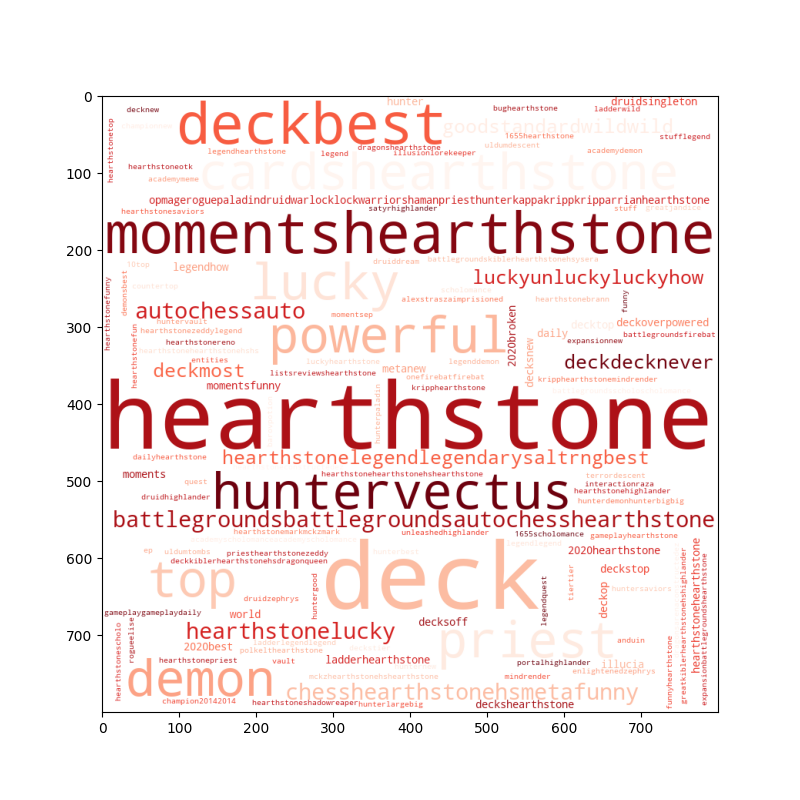
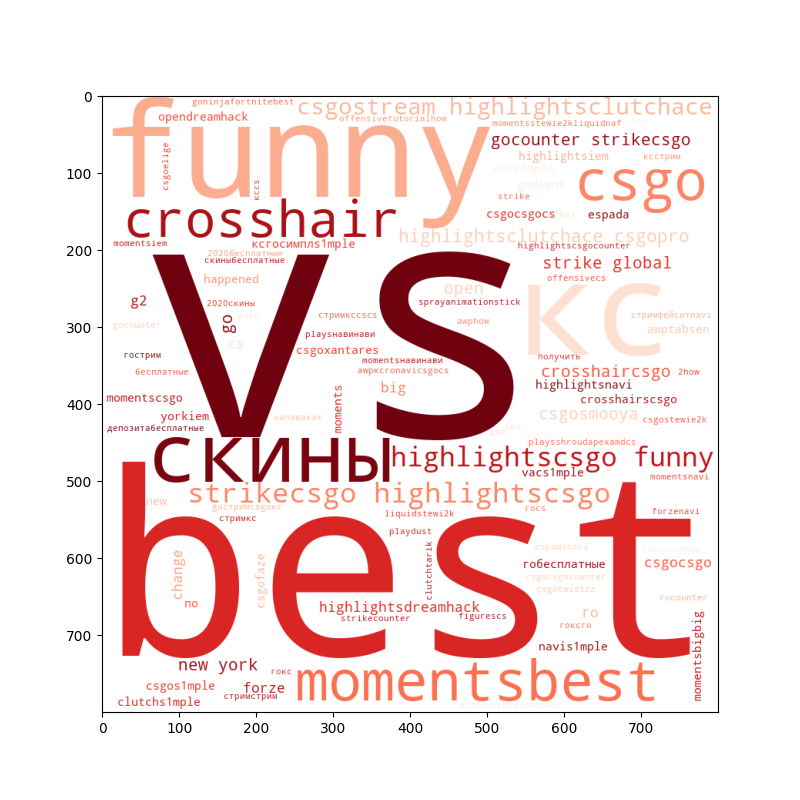
Worked on tag filter and worked on VIDEO SELECTION

Changed region(s): [[0.125, 0.0938, 0.9062, 0.9062]]

diff --git a/Web/django/mysite/ytAnalytic/templates/ytAnalytic/searched.html b/Web/django/mysite/ytAnalytic/templates/ytAnalytic/searched.html
@@ -4,26 +4,34 @@
     <h1 class="channel-heading">Search for: {{ searched_url }}</h1>
     <form method="POST">
         {% csrf_token %}
-        {{ form.as_p }}
-    <!-- </form> -->
-    <!-- <form> -->
-        <button type="submit" class="btn btn-secondary">Submit</button>
+        <!-- {{ form.as_p }} -->
+        {% include "ytAnalytic/tag_filter.html" %}
+        <button type="Submit" name="Submit_tag" value="Submit" class="btn btn-secondary">Submit</button>
+    </form>
+    <form method="POST">
+        {% csrf_token %}
         <div class="container container-fluid content-section" >
-            {% for vid in list %}
+            {% for vid in vid_list %}
                 {% if forloop.first %}<div class="row">{% endif %}
                         <div class="text-center col-lg-4">
                             <div class="embed-responsive">
                                 <div class="classWithPad">
                                     <img src="{{ vid.thumbnail }}" class="img-fluid thumb" alt="Responsive image">
                                     <!-- <input type="radio" id="{{ vid.id }}" name="{{ vid.title }}" value="{{ vid.title }}"> -->
-                                    <a href="{% url 'ytAnalytic-video' %}" class="align-text-bottom">{{ vid.title }}</a>
+                                    <input type="radio" name="select"
+                                        value='{% if submitbutton_vid == "Submit" %} 
+                                        {{ vid.id }} 
+                                        {% endif %}'>
+                                    <label for="select" class="align-text-bottom">{{ vid.title }}</label>
                                 </div>
                             </div>
                         </div>
                 {% if forloop.counter|divisibleby:3 %}</div><div class="row">{% endif %}
                 {% if forloop.last %}</div>{% endif %}
             {% endfor %}
+            <button type="Submit" name="Submit_vid" value="Submit" class="btn btn-secondary">Submit</button>
             <img src="../static/ytAnalytic/wordcloud.png" class="img-fluid thumb" alt="Responsive image"></img>
         </div>
     </form>
+    <!-- </form> -->
 {% endblock content %}

diff --git a/Web/django/mysite/ytAnalytic/templates/ytAnalytic/video.html b/Web/django/mysite/ytAnalytic/templates/ytAnalytic/video.html
@@ -4,7 +4,7 @@
     <h3 class="text-left video-title">Video Title</h3>  
     <div class="embed-responsive embed-responsive-16by9">
             <iframe class="embed-responsive-item"
-                src="https://www.youtube.com/embed/ikRJSIYm2RM"
+                src="https://www.youtube.com/embed/jl84QblsNP8"
                     allowfullscreen>
             </iframe>
     </div>

diff --git a/Web/django/mysite/ytAnalytic/templates/ytAnalytic/tag_filter.html b/Web/django/mysite/ytAnalytic/templates/ytAnalytic/tag_filter.html
@@ -1,0 +1,8 @@
+{% for tag in tag_list %}
+    <input type="radio" name="tag" 
+        value='{% if submitbutton_tag == "Submit" %} 
+                {{ tag }} 
+                {% endif %}'>
+        <label for="tag"> {{ tag }} </label>
+{% endfor %}
+

diff --git a/Web/django/mysite/ytAnalytic/views.py b/Web/django/mysite/ytAnalytic/views.py
@@ -28,23 +28,36 @@ def about(request):
 def searched(request):
     searched_url = request.session['searched_url']
     vid_list = search_api.search(requests, searched_url)
-    
+
     #Getting tag from tag form
+    # tag = ''
+    # if request.method == 'POST':
+    #     form = TagForm(request.POST)
+    #     if form.is_valid():
+    #         request.session['tag'] = form.cleaned_data.get('tag')
+    #         return redirect('/searched/')
+    # else:
+    #     form = TagForm()
+    # tag = request.session['tag']
+    tag = request.POST.get('tag')
+    submitbutton_tag = request.POST.get('Submit_tag')
+    print('the selected tags are:', tag)
     
-    if request.method == 'POST':
-        form = TagForm(request.POST)
-        if form.is_valid():
-            request.session['tag'] = form.cleaned_data.get('tag_field')
-            return redirect('/searched/')
-    else:
-        form = TagForm()
-    tag = request.session['tag']
+    selected_video = request.POST.get('select')
+    submitbutton_vid = request.POST.get('Submit_vid')
+    print('the selected VIDEO is:', selected_video)
+    if selected_video != None:
+        request.session['selected'] = selected_video.strip()
+        print('Stripped id', selected_video.strip())
+        return redirect('/video/')
+    
     searched_url = request.session['searched_url']
     vid_list = search_api.search(requests, searched_url)
+    tag_list = sort.tag_list(requests, vid_list)
     
     #filtering only videos containing that tag
 
-    if tag != '':
+    if tag != None:
         filtered_id = sort.sort_tag(requests, tag, vid_list)
         filtered_list = []
         for vid in vid_list:
@@ -58,22 +71,30 @@ def searched(request):
     for vid in vid_list:
         vid_list_stats.append(search_api.statistics(requests, vid['id']))
     graphs.tag_cloud(vid_list_stats)
+    
     context = {
-        'list' : vid_list,
+        'tag_list' : tag_list,
+        'vid_list' : vid_list,
         'searched_url' : searched_url,
-        'form' : form
+        'tag' : tag,
+        'submitbutton_tag' : submitbutton_tag,
+        'submitbutton_vid' : submitbutton_vid 
+        # 'form' : form
     }
     tag = ''
     request.session['tag'] = ''
     return render(request, 'ytAnalytic/searched.html', context)
 
 def video(request):
-    stats = search_api.statistics(requests, 'ikRJSIYm2RM')
+    selected_video = request.session['selected']
+    stats = search_api.statistics(requests, '3K4VwKZ-4Os')
     like = stats['likeCount']
     dislike = stats['dislikeCount']
     views = stats['viewCount']
     comments = stats['commentCount']
     tags = stats['tags']
+    duration = stats['duration']
+    print(duration)
     fig = graphs.example()
     graph = fig.to_html(full_html=False, default_height=500, default_width=700)
     like_dislike = graphs.like_dislike(like, dislike)

diff --git a/Web/django/mysite/ytAnalytic/scripts/search_api.py b/Web/django/mysite/ytAnalytic/scripts/search_api.py
@@ -15,9 +15,10 @@ def search(requests, text):
             'type' : 'video'
         }
 
-        video_data = []
+
         r = requests.get(search_url, params=params)
-        print(r)
+        video_data = []
+        #print(r)
         results = r.json()['items']
 
         for result in results:
@@ -37,22 +38,28 @@ def statistics(requests, video_id):
     if cache.get(video_id) == None:
         search_url = 'https://www.googleapis.com/youtube/v3/videos'
         params = {
-            'part' : 'statistics,snippet',
+            'part' : 'statistics,snippet,contentDetails',
             'key' : settings.YOUTUBE_API_KEY,
             'type' : 'video',
             'id' : video_id
         }
         
         r = requests.get(search_url, params=params)
-        
         results = r.json()['items'][0]
+        
+        try:
+            tag = results['snippet']['tags']
+        except KeyError:
+            tag = ['']
+        
         stats = {
             'likeCount' : results['statistics']['likeCount'], 
             'dislikeCount' : results['statistics']['dislikeCount'],
             'viewCount' : results['statistics']['viewCount'],
             'favoriteCount' : results['statistics']['favoriteCount'],
             'commentCount' : results['statistics']['commentCount'],
-            'tags' : results['snippet']['tags']
+            'tags' : tag,
+            'duration' : results['contentDetails']['duration']
         }
         cache.add(video_id, stats)
     else:

diff --git a/Web/django/mysite/ytAnalytic/scripts/sort.py b/Web/django/mysite/ytAnalytic/scripts/sort.py
@@ -4,12 +4,24 @@ import ytAnalytic.scripts.search_api as api
 import time
 
 def sort_tag(requests, tag, vid_list):
+    tag = tag.strip()
     filtered = []
     for vid in vid_list:
         print(filtered)
         time.sleep(1)
         tag_list = api.statistics(requests, vid['id'])['tags']
-        print(tag_list)
+        tag_list = [tag.lower() for tag in tag_list]
         if tag in tag_list:
+            print(tag)
             filtered.append(vid['id'])
     return filtered
+
+def tag_list(requests, vid_list):
+    tags = []
+    for vid in vid_list:
+        vid_tags = api.statistics(requests, vid['id'])['tags']
+        for tag in vid_tags:
+            tag = tag.lower()
+            if tag not in tags:
+                tags.append(tag)
+    return tags

diff --git a/Web/django/mysite/mysite/settings.py b/Web/django/mysite/mysite/settings.py
@@ -47,11 +47,11 @@ INSTALLED_APPS = [
 ]
 
 MIDDLEWARE = [
-    'django.middleware.security.SecurityMiddleware',
-    'django.contrib.sessions.middleware.SessionMiddleware',
     'django.middleware.common.CommonMiddleware',
-    'django.middleware.csrf.CsrfViewMiddleware',
+    'django.contrib.sessions.middleware.SessionMiddleware',
     'django.contrib.auth.middleware.AuthenticationMiddleware',
+    'django.middleware.csrf.CsrfViewMiddleware',
+    'django.middleware.security.SecurityMiddleware',
     'django.contrib.messages.middleware.MessageMiddleware',
     'django.middleware.clickjacking.XFrameOptionsMiddleware',
 ]
